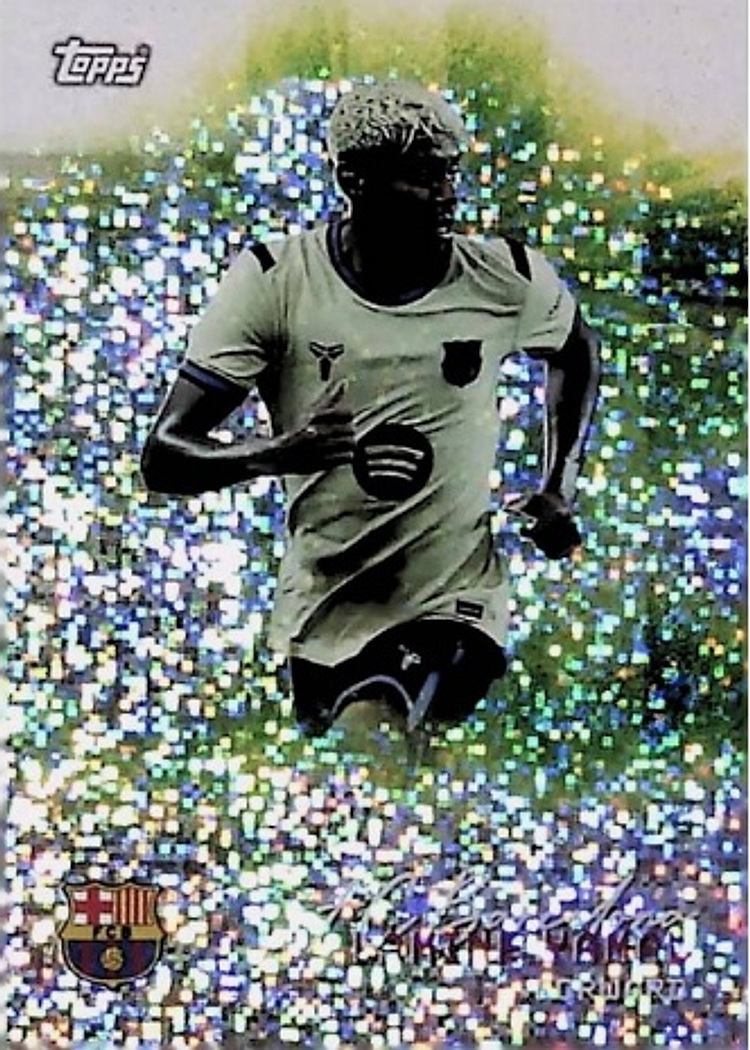
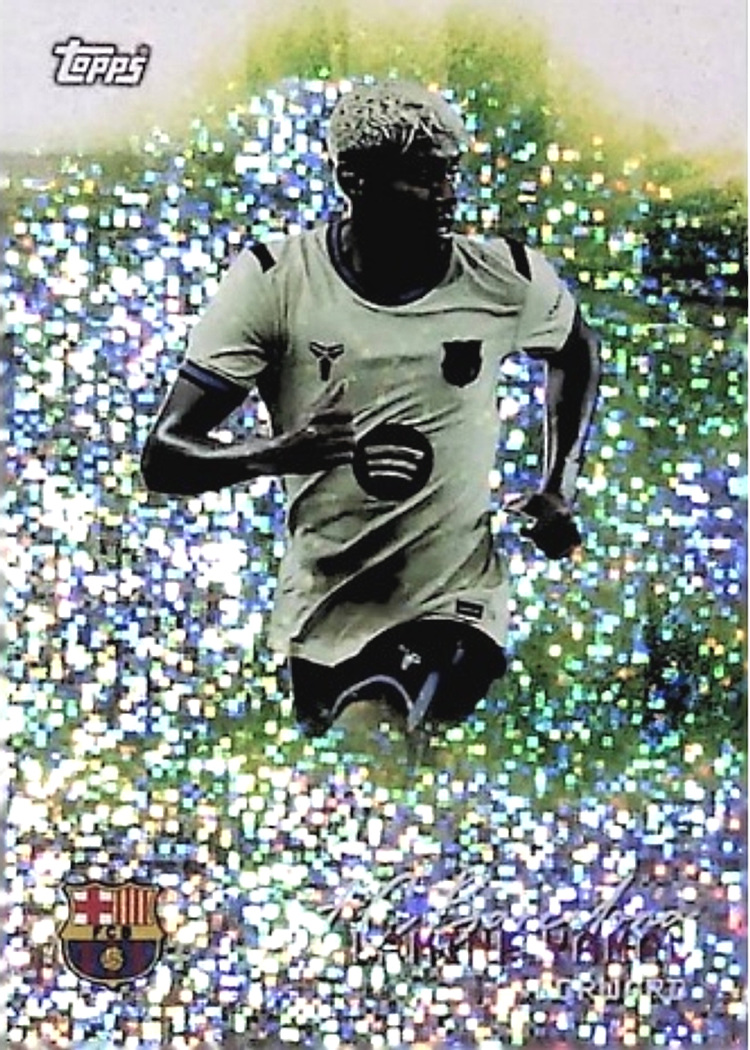
fix: brighten Barcelona team set cards

diff --git a/tests/catalogue.test.ts b/tests/catalogue.test.ts
@@ -1109,6 +1109,29 @@ describe("Topps FC Barcelona Team Set 2025-26 catalogue", () => {
       expect({ width: metadata.width, height: metadata.height }, card.slug).toEqual(expected);
     }
   });
+
+  it("keeps the first nine catalogue cards legible instead of crushing their shadows", async () => {
+    const firstNine = barcelonaTeamSetDesigns.slice(0, 9);
+
+    for (const slug of firstNine) {
+      const imagePath = path.join(
+        process.cwd(),
+        "public/images/topps-fc-barcelona-team-set-2025-26/cards",
+        `${slug}.jpg`,
+      );
+      const { data, info } = await sharp(imagePath)
+        .resize(100, 100, { fit: "fill" })
+        .removeAlpha()
+        .raw()
+        .toBuffer({ resolveWithObject: true });
+      let luminance = 0;
+      for (let index = 0; index < data.length; index += info.channels) {
+        luminance += (0.2126 * data[index] + 0.7152 * data[index + 1] + 0.0722 * data[index + 2]) / 255;
+      }
+
+      expect(luminance / (info.width * info.height), `${slug} is still underexposed`).toBeGreaterThan(0.32);
+    }
+  });
 });
 
 describe("Topps Manchester United Team Set 2025-26 catalogue", () => {
